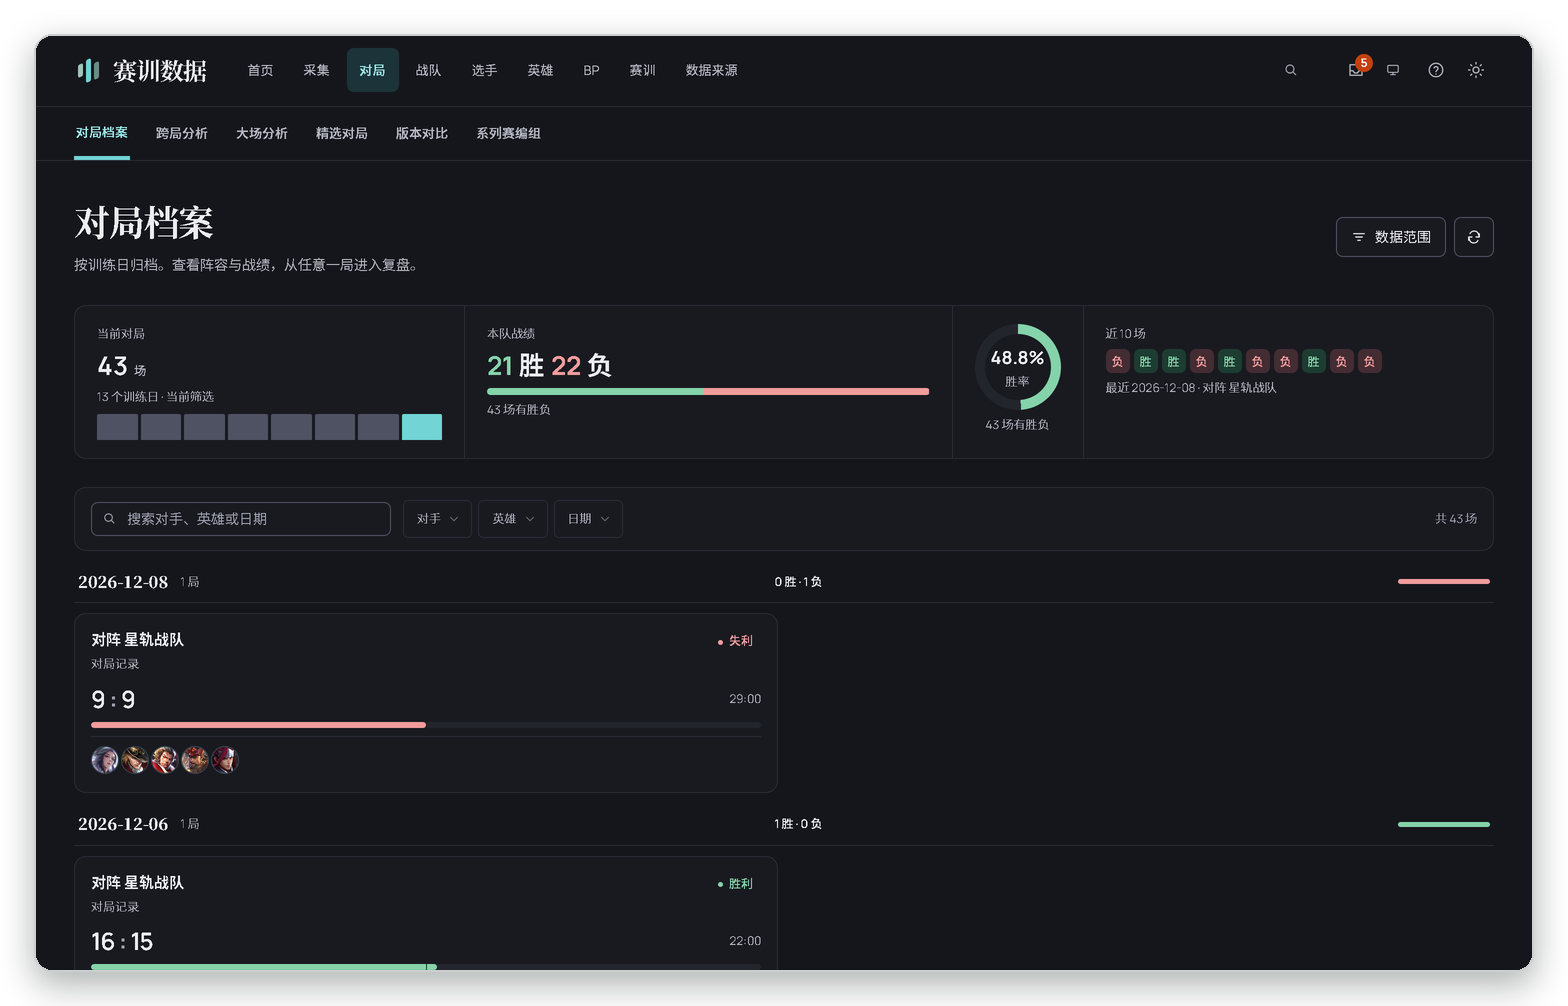
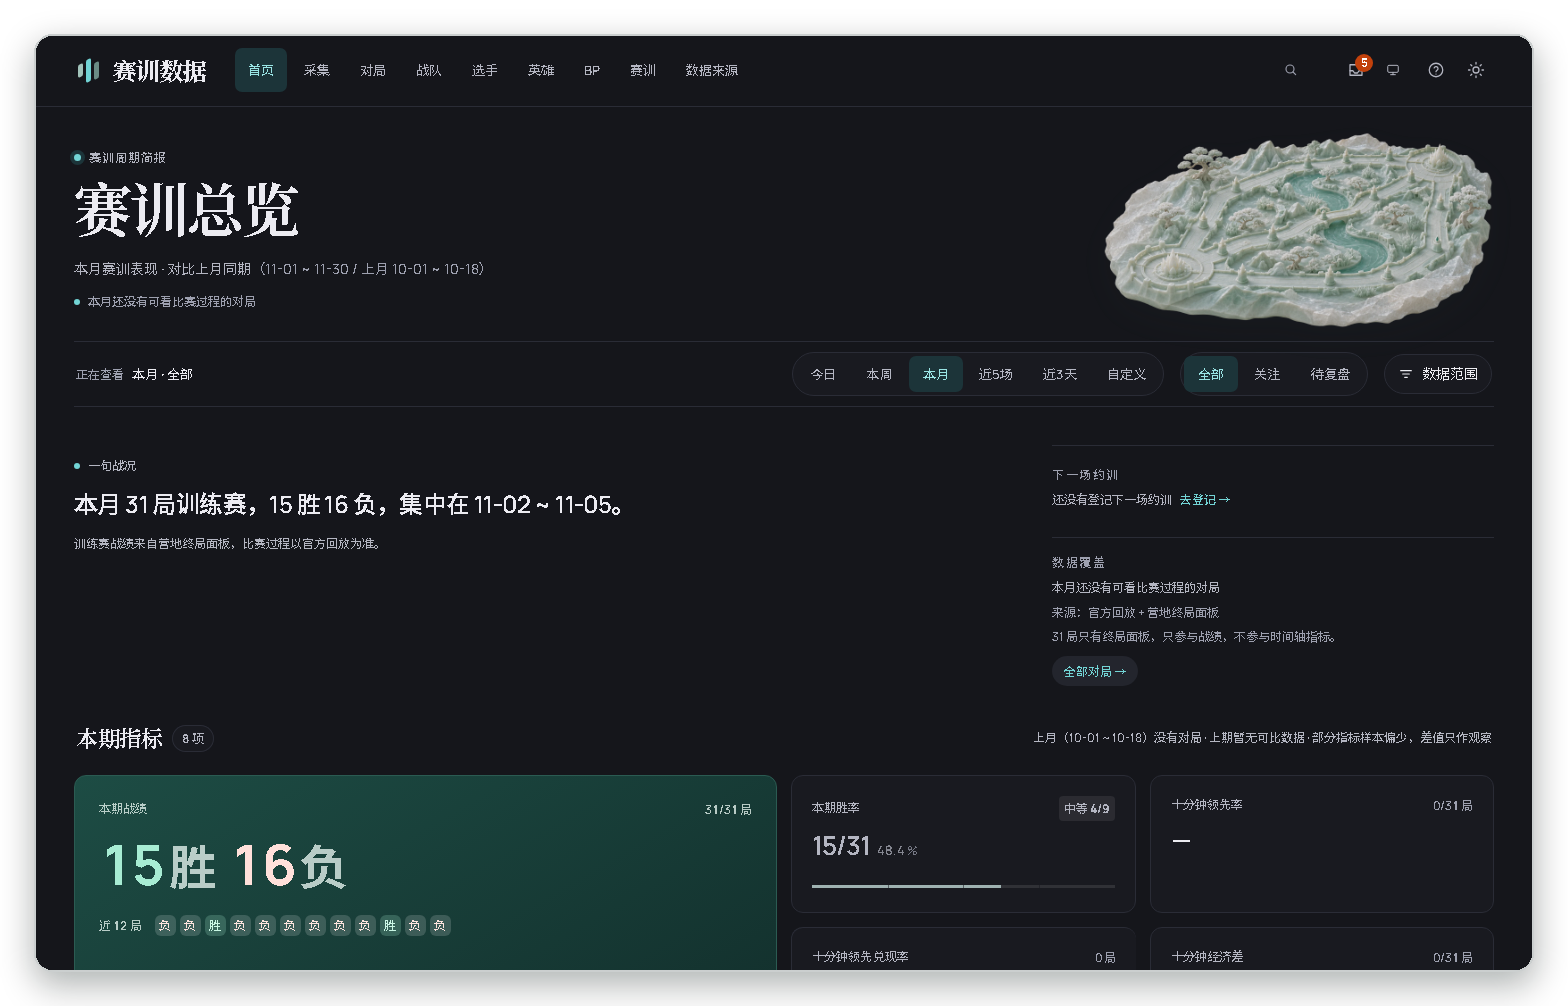
docs+fix: 首页截图换成赛训简报，数据覆盖不再自相矛盾
- README 首图、官网首屏换成本月「赛训简报」首页（深色主题，合成演示数据）。
- 只有终局面板时，coverage.note 不再写「本月还没有对局」，改成
  「本月还没有可看比赛过程的对局」，并点明面板局只参与战绩。
- deploy_site_api.py 的二进制 blob 改走 JSON 载荷（base64 塞命令行会 WinError 206）。

diff --git a/website/src/index.html b/website/src/index.html
@@ -140,7 +140,7 @@
             <span class="frame-title">赛训数据</span>
             <span class="frame-url">127.0.0.1:8766</span>
           </div>
-          <img src="assets/img/v3-hero.webp?v={{ASSET_VERSION}}" alt="赛训数据首页：最近对局、英雄观察、胜负与经济走势，均为合成演示数据" width="1600" height="1000" fetchpriority="high">
+          <img src="assets/img/v3-hero.webp?v={{ASSET_VERSION}}" alt="赛训数据首页：一句战况、本期指标、重点发现与最值得复盘的比赛，均为合成演示数据" width="1600" height="1000" fetchpriority="high">
           <figcaption class="frame-cap"><span>赛训数据首页 · 合成示例数据</span><span>v{{VERSION}}</span></figcaption>
         </figure>
         <p class="hero-note">

diff --git a/v3/public/period-brief.js b/v3/public/period-brief.js
@@ -972,7 +972,12 @@ function coverageSentence(coverage) {
   const games = has(coverage.games) ? coverage.games : null;
   const replay = has(coverage.withReplay) ? coverage.withReplay : null;
   if (games === null) return '本期还没有可统计的对局。';
-  if (games === 0) return '本期还没有收录对局。';
+  // 只有终局面板时局数不是 0，不能说「还没有收录对局」。
+  if (games === 0) {
+    return has(coverage.panelGames) && Number(coverage.panelGames) > 0
+      ? '本期只有终局面板，没有可看比赛过程的对局。'
+      : '本期还没有收录对局。';
+  }
   if (replay === null) return `本期收录 ${games} 局。`;
   return `已收录 ${games} 局，其中 ${replay} 局可看比赛过程。`;
 }

diff --git a/scripts/deploy_site_api.py b/scripts/deploy_site_api.py
@@ -13,6 +13,7 @@ Nothing is written unless the tree actually differs from the remote one.
 """
 from __future__ import annotations
 
+import base64
 import hashlib
 import json
 import subprocess
@@ -97,8 +98,11 @@ def main() -> int:
             entries.append({'path': rel, 'mode': '100644', 'type': 'blob',
                             'content': data.decode('utf-8')})
         else:
-            blob = gh(f'repos/{REPO}/git/blobs', '-f', 'encoding=base64',
-                      '-f', f'content={__import__("base64").b64encode(data).decode("ascii")}')
+            # base64 有几百 KB，不能塞进命令行（Windows 会报 WinError 206），
+            # 必须走 --input 的 JSON 载荷。
+            blob = gh(f'repos/{REPO}/git/blobs', payload={
+                'content': base64.b64encode(data).decode('ascii'),
+                'encoding': 'base64'})
             entries.append({'path': rel, 'mode': '100644', 'type': 'blob',
                             'sha': blob['sha']})
             print(f'  二进制 {rel} -> {blob["sha"][:8]}')

diff --git a/analysis_period.py b/analysis_period.py
@@ -2316,7 +2316,12 @@ def _coverage(entries, record, window, panel_only=()):
     panel_games = len(entries) + len(panel_only)
     opponents = len({item['opponentId'] for item in entries if item['opponentId']})
     if not entries:
-        note = f"{_period_cur_word(window)}还没有对局"
+        # 只有终局面板时 summary 里仍然有局数，这里不能写成「还没有对局」，
+        # 否则首页一句战况说「本月 31 局」、数据覆盖说「本月还没有对局」，自相矛盾。
+        if panel_only:
+            note = f"{_period_cur_word(window)}还没有可看比赛过程的对局"
+        else:
+            note = f"{_period_cur_word(window)}还没有对局"
     else:
         note = f"本期 {len(entries)} 局有比赛过程"
         if panel_only:

diff --git a/CHANGELOG.md b/CHANGELOG.md
@@ -15,6 +15,8 @@
 - 战队页核数玫瑰图标签去描边、局数移进扇区；位置组合表字号整体放大。
 - 单场报告 BP 卡不再被同排展开的卡拉长。
 - 修掉公开仓库与发布包根路径空白：发布包只拷 `v3/serve.py`、`deep_analysis.py`、`demo_data.py` 三个白名单文件，同目录的 `v3/series_api.py` 没进包，`_mount_v3()` 一失败 v3 路由与 `/static` 全都不挂载，打开就是空白页；公开仓库那边则是 `peak_crawl` 顶层依赖不随仓库发布的 `scripts/build_bp_facts.py`。现在 `v3/` 按目录扫 `*.py`，`peak_crawl` 改为可选导入（缺失只关掉巅峰千强抓取）；`make_release.py` 的冒烟测试补了 `V3_MODULE` 断言，同类问题打包时就报错。
+- **首页数据覆盖文案**：只有终局面板、没有可看过程的对局时，概述与「数据覆盖」原来都写「本月还没有对局」，而同一屏的「一句战况」写着「本月 31 局训练赛」——自相矛盾。现在改成「本月还没有可看比赛过程的对局」，并在有面板局时点明「N 局只有终局面板，只参与战绩，不参与时间轴指标」。
+- **首页与官网截图**：README 首图与官网首屏换成新的「赛训简报」首页（一句战况 / 本期指标 / 重点发现 / 最值得复盘的比赛），不再是对局档案或旧版首页；alt 文案同步。
 
 ### BP 规则与展示：三模式重做
 

diff --git a/README.md b/README.md
@@ -23,10 +23,10 @@
 </div>
 
 <p align="center">
-  <img src="docs/images/readme-hero.png" width="100%" alt="V3 工作台 · 对局档案：43 场训练赛按训练日归档，比分、时长与阵容一眼可见">
+  <img src="docs/images/readme-hero.png" width="100%" alt="V3 工作台 · 首页赛训简报：一句战况、本期指标、重点发现与最值得复盘的比赛，结论先摆出来">
 </p>
 
-<p align="center"><sub>V3 工作台 · 对局档案（深色主题） · 界面内为合成演示数据</sub></p>
+<p align="center"><sub>V3 工作台 · 首页「赛训简报」（深色主题） · 界面内为合成演示数据</sub></p>
 
 ---
 
